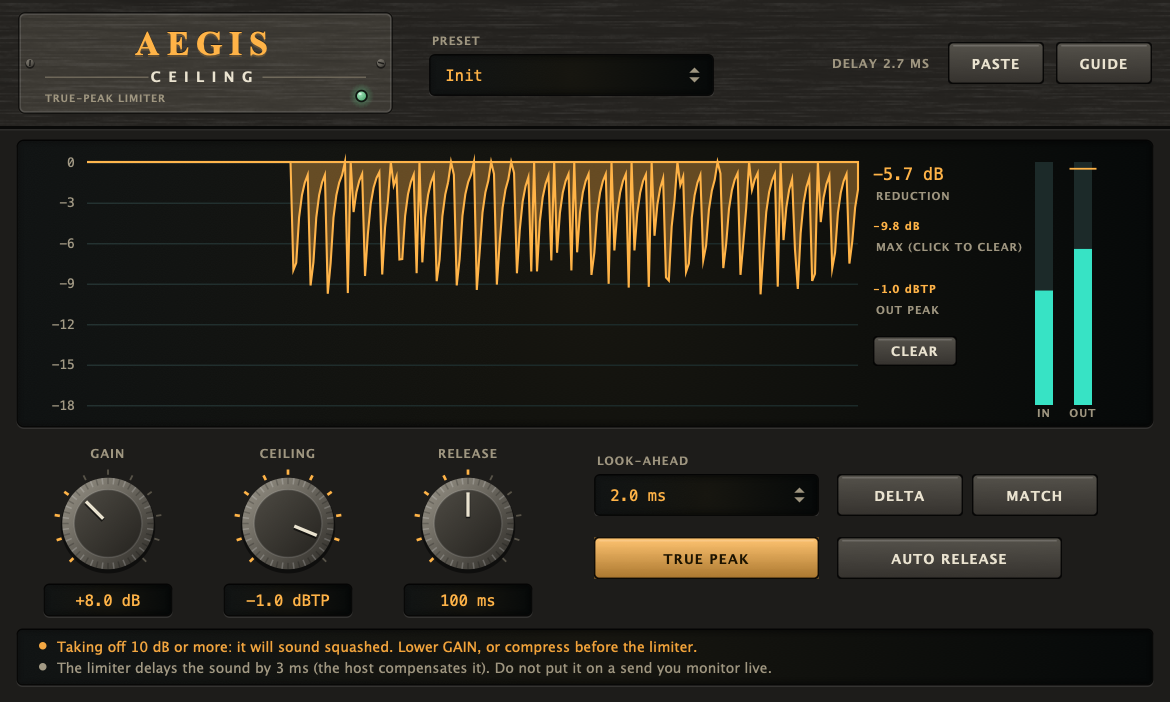
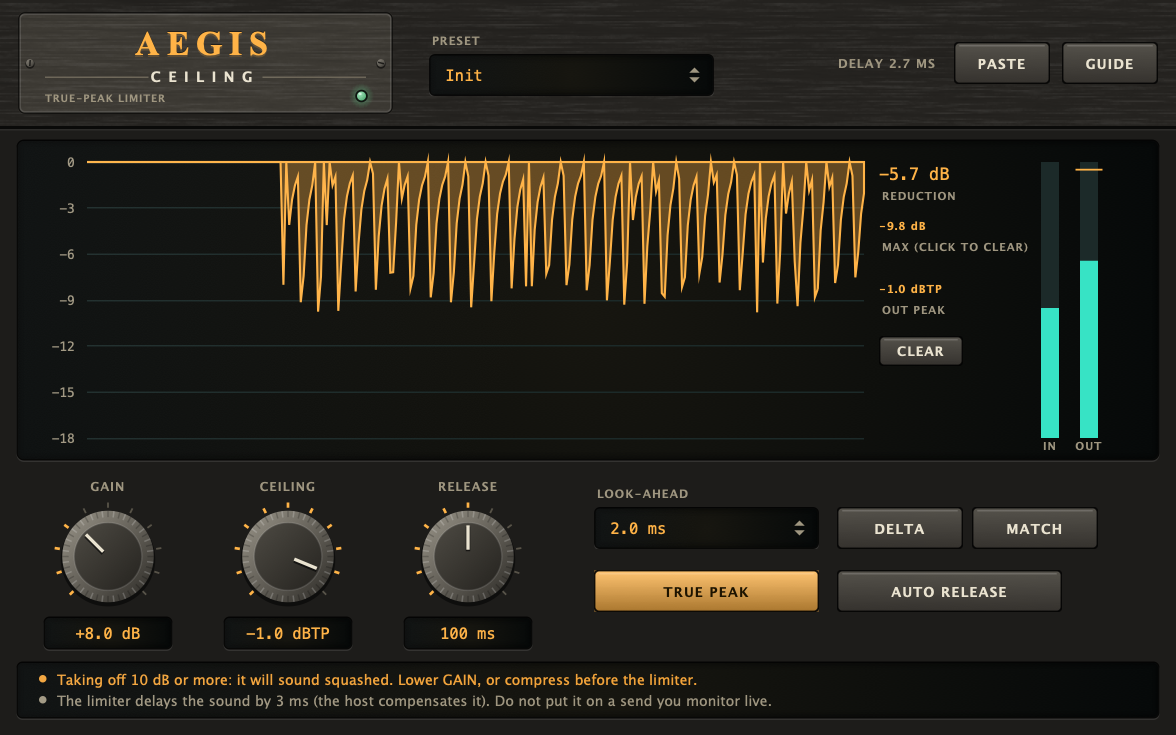
Aegis: 16:10 window, the display takes the rest of the height
The editor is 784 px wide and 490 px high, its height from
ui::editorHeightFor, instead of a fixed 190 px display under the
controls. The display takes what the header, controls and note strip
leave. UiCheck pins the 16:10 shape; the screenshot is regenerated.

diff --git a/plugins/aegis/Source/PluginEditor.cpp b/plugins/aegis/Source/PluginEditor.cpp
@@ -3,16 +3,18 @@
 
 #include "PluginEditor.h"
 
+#include <pantheon/ui/Aspect.h>
+
 using namespace aegis;
 namespace hw = ui::hw;
 
 namespace
 {
 constexpr int headerHeight = 84;
-constexpr int displayHeight = 190;
 constexpr int controlsHeight = 118;
 constexpr int kTimerHz = 30;
-constexpr int kWidth = 780;
+constexpr int kWidth = 784, kHeight = ui::editorHeightFor (kWidth); // 16:10, the kit's shape
+constexpr int displayHeight = kHeight - (headerHeight + 10 + 10 + controlsHeight + 8 + ui::kNoteStripHeight + 12); // the display takes what the rest leaves
 constexpr float kReadoutWidth = 150.0f; // the right side of the glass: numbers, then the IN and OUT bars (paint() and the CLEAR button's place in resized())
 constexpr int kPasteTicks = 30 * 8; // eight seconds
 }
@@ -40,7 +42,7 @@ AegisEditor::AegisEditor (AegisProcessor& p)
     clearOutButton.setTooltip ("Clear the OUT PEAK hold and the MAX REDUCTION hold (clicking the MAX REDUCTION number clears that one alone). They also clear when CEILING or TRUE PEAK changes, because the old peaks were read against another limit.");
     clearOutButton.onClick = [this] { outHold = gui::kLevelFloorDb; reductionHold = 0.0f; };
     startTimerHz (kTimerHz);
-    setSize (kWidth, headerHeight + 10 + displayHeight + 10 + controlsHeight + 8 + ui::kNoteStripHeight + 12);
+    setSize (kWidth, kHeight);
 }
 
 AegisEditor::~AegisEditor() { setLookAndFeel (nullptr); }

diff --git a/plugins/aegis/Tests/UiCheck.cpp b/plugins/aegis/Tests/UiCheck.cpp
@@ -108,6 +108,7 @@ int main()
     {
         std::unique_ptr<juce::AudioProcessorEditor> holder (proc.createEditor());
         auto& editor = ui::innerOf<AegisEditor> (*holder);
+        check (ui::hasEditorAspect (editor.getWidth(), editor.getHeight()), "the editor is drawn at 16:10, the shape of every plugin");
         editor.setVisible (true);
         check (editor.lookaheadBox.getNumItems() == kNumLookahead, "the look-ahead selector has the parameter's items");
         check (editor.getWidth() > 600 && editor.releaseKnob.getRight() < editor.lookaheadBox.getX() && editor.truePeakButton.getBottom() < editor.getHeight(), "the controls fit the window");
